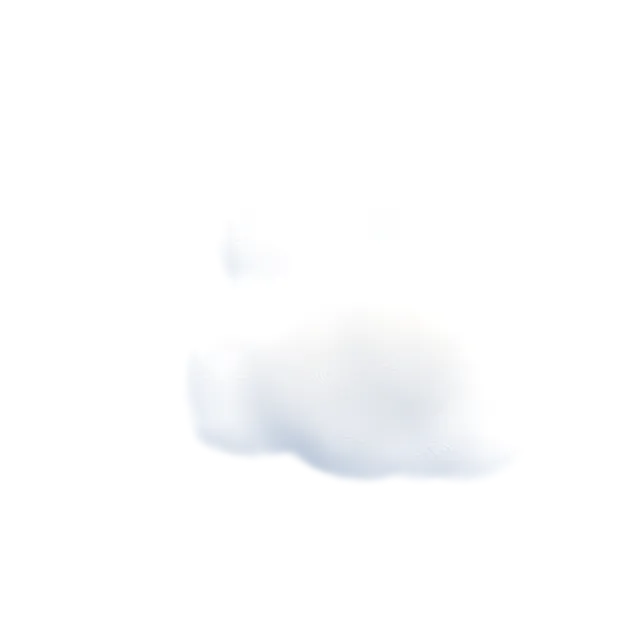
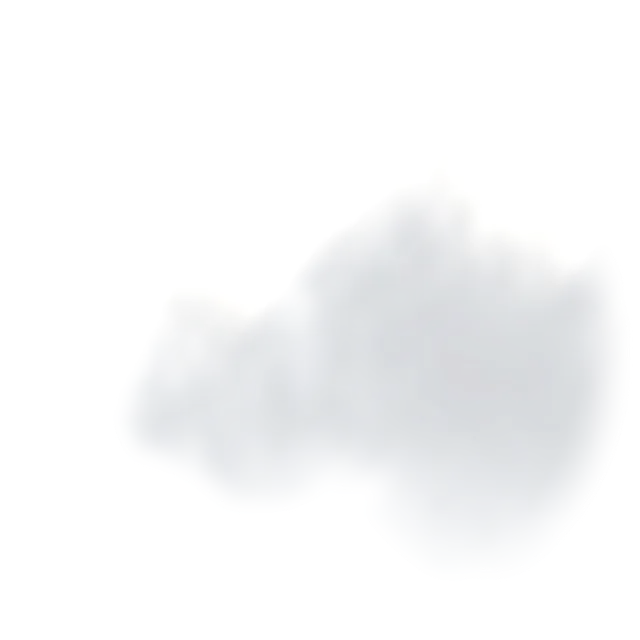
Demo 2: volumetric cloud render, tuned to the Awwwards annual reference
Density field instead of a lit surface: turbulence, fractal erosion, rim
filaments and a soft flat base, shaded by marching toward the sun through
the density. Clouds brighter and lighter so a pass no longer greys out the
hero; near shards dropped to .28-.42 opacity.

diff --git a/halo.css b/halo.css
@@ -45,8 +45,8 @@
 .xx-layer--far { --dur: 190s; --s0: 1.00; --s1: 1.22; --o: 0.80; --dx: -2%; --dy: 1%; }
 .xx-layer--mid { --dur: 130s; --s0: 0.96; --s1: 1.46; --o: 0.82; --dx:  3%; --dy: 3%; }
 
-.xx-layer--far .xx-cloud { background-image: url(clouds/far2.webp?v=20260917b); background-size: auto 30%; background-position: 50% 46%; }
-.xx-layer--mid .xx-cloud { background-image: url(clouds/mid2.webp?v=20260917b); background-size: auto 62%; background-position: 50% 72%; }
+.xx-layer--far .xx-cloud { background-image: url(clouds/far2.webp?v=20260917c); background-size: auto 30%; background-position: 50% 46%; }
+.xx-layer--mid .xx-cloud { background-image: url(clouds/mid2.webp?v=20260917c); background-size: auto 62%; background-position: 50% 72%; }
 
 @keyframes xxFly {
   0%   { transform: translate3d(0, 0, 0) scale(var(--s0)) scaleX(var(--flip)); opacity: 0; }
@@ -123,14 +123,14 @@
   animation-delay: calc((var(--delay) + var(--lag)) * var(--xx-tempo));
 }
 /* start clustered, end far apart: that spread is what reads as the tear */
-.xx-burst .xx-shard:nth-child(1) { --lag: 0s;   --o: .58; --x0: -2.0vmax; --y0: -1.2vmax; --x1: -58vmax; --y1:  26vmax; --s0: .26; --s1: 3.0; --r1:  -9deg; background-image: url(clouds/puff1.webp?v=20260917b); }
-.xx-burst .xx-shard:nth-child(2) { --lag: .5s;  --o: .54; --x0:  1.6vmax; --y0: -2.0vmax; --x1:  52vmax; --y1:  34vmax; --s0: .23; --s1: 2.7; --r1:   8deg; background-image: url(clouds/puff2.webp?v=20260917b); }
-.xx-burst .xx-shard:nth-child(3) { --lag: .9s;  --o: .50; --x0: -0.8vmax; --y0:  1.8vmax; --x1: -18vmax; --y1:  64vmax; --s0: .20; --s1: 3.3; --r1:   5deg; background-image: url(clouds/puff3.webp?v=20260917b); }
-.xx-burst .xx-shard:nth-child(4) { --lag: 1.4s; --o: .44; --x0:  2.4vmax; --y0:  0.6vmax; --x1:  30vmax; --y1: -30vmax; --s0: .18; --s1: 2.4; --r1:  -6deg; background-image: url(clouds/puff4.webp?v=20260917b); }
-.xx-burst:nth-child(2) .xx-shard:nth-child(1) { background-image: url(clouds/puff5.webp?v=20260917b); }
-.xx-burst:nth-child(2) .xx-shard:nth-child(3) { background-image: url(clouds/puff6.webp?v=20260917b); }
-.xx-burst:nth-child(3) .xx-shard:nth-child(2) { background-image: url(clouds/puff6.webp?v=20260917b); }
-.xx-burst:nth-child(3) .xx-shard:nth-child(4) { background-image: url(clouds/puff5.webp?v=20260917b); }
+.xx-burst .xx-shard:nth-child(1) { --lag: 0s;   --o: .42; --x0: -2.0vmax; --y0: -1.2vmax; --x1: -58vmax; --y1:  26vmax; --s0: .26; --s1: 3.0; --r1:  -9deg; background-image: url(clouds/puff1.webp?v=20260917c); }
+.xx-burst .xx-shard:nth-child(2) { --lag: .5s;  --o: .38; --x0:  1.6vmax; --y0: -2.0vmax; --x1:  52vmax; --y1:  34vmax; --s0: .23; --s1: 2.7; --r1:   8deg; background-image: url(clouds/puff2.webp?v=20260917c); }
+.xx-burst .xx-shard:nth-child(3) { --lag: .9s;  --o: .34; --x0: -0.8vmax; --y0:  1.8vmax; --x1: -18vmax; --y1:  64vmax; --s0: .20; --s1: 3.3; --r1:   5deg; background-image: url(clouds/puff3.webp?v=20260917c); }
+.xx-burst .xx-shard:nth-child(4) { --lag: 1.4s; --o: .28; --x0:  2.4vmax; --y0:  0.6vmax; --x1:  30vmax; --y1: -30vmax; --s0: .18; --s1: 2.4; --r1:  -6deg; background-image: url(clouds/puff4.webp?v=20260917c); }
+.xx-burst:nth-child(2) .xx-shard:nth-child(1) { background-image: url(clouds/puff5.webp?v=20260917c); }
+.xx-burst:nth-child(2) .xx-shard:nth-child(3) { background-image: url(clouds/puff6.webp?v=20260917c); }
+.xx-burst:nth-child(3) .xx-shard:nth-child(2) { background-image: url(clouds/puff6.webp?v=20260917c); }
+.xx-burst:nth-child(3) .xx-shard:nth-child(4) { background-image: url(clouds/puff5.webp?v=20260917c); }
 
 /* The approach is deliberately uneven: almost nothing happens for the first
    half (a cloud far ahead), then it swells, and in the last quarter the four
@@ -188,8 +188,8 @@ html.xx-soft .xx-sky {
     radial-gradient(ellipse 120% 60% at 50% 100%, rgba(255, 247, 234, 0.9) 0%, transparent 70%),
     linear-gradient(180deg, #e6ecf2 0%, #eef0f0 30%, #f7f3ea 58%, #fbf8ef 100%);
 }
-html.xx-soft .xx-layer--far .xx-cloud { background-image: url(clouds/far.webp?v=20260917b); }
-html.xx-soft .xx-layer--mid .xx-cloud { background-image: url(clouds/mid.webp?v=20260917b); }
+html.xx-soft .xx-layer--far .xx-cloud { background-image: url(clouds/far.webp?v=20260917c); }
+html.xx-soft .xx-layer--mid .xx-cloud { background-image: url(clouds/mid.webp?v=20260917c); }
 html.xx-soft .xx-shard { filter: blur(2px) opacity(.7); }
 
 /* the prototype is one screen: nav + hero fill the viewport */
@@ -199,18 +199,18 @@ html.xx-soft .xx-shard { filter: blur(2px) opacity(.7); }
 /* phones: half-size textures, fewer shards, the nimbus a little tighter */
 @media (max-width: 768px) {
   :root { --cx: 50%; --cy: 48%; }
-  .xx-layer--far .xx-cloud { background-image: url(clouds/far2-m.webp?v=20260917b); }
-  .xx-layer--mid .xx-cloud { background-image: url(clouds/mid2-m.webp?v=20260917b); }
+  .xx-layer--far .xx-cloud { background-image: url(clouds/far2-m.webp?v=20260917c); }
+  .xx-layer--mid .xx-cloud { background-image: url(clouds/mid2-m.webp?v=20260917c); }
   .xx-cloud { top: -30%; left: -30%; width: 160%; height: 160%; }
   .xx-layer--far .xx-cloud { background-size: auto 26%; }
   .xx-layer--mid .xx-cloud { background-size: auto 54%; }
-  .xx-burst .xx-shard:nth-child(1) { background-image: url(clouds/puff1-m.webp?v=20260917b); }
-  .xx-burst .xx-shard:nth-child(2) { background-image: url(clouds/puff2-m.webp?v=20260917b); }
-  .xx-burst .xx-shard:nth-child(3) { background-image: url(clouds/puff3-m.webp?v=20260917b); }
+  .xx-burst .xx-shard:nth-child(1) { background-image: url(clouds/puff1-m.webp?v=20260917c); }
+  .xx-burst .xx-shard:nth-child(2) { background-image: url(clouds/puff2-m.webp?v=20260917c); }
+  .xx-burst .xx-shard:nth-child(3) { background-image: url(clouds/puff3-m.webp?v=20260917c); }
   .xx-burst .xx-shard:nth-child(4) { display: none; }
-  .xx-burst:nth-child(2) .xx-shard:nth-child(1) { background-image: url(clouds/puff5-m.webp?v=20260917b); }
-  .xx-burst:nth-child(2) .xx-shard:nth-child(3) { background-image: url(clouds/puff6-m.webp?v=20260917b); }
-  .xx-burst:nth-child(3) .xx-shard:nth-child(2) { background-image: url(clouds/puff6-m.webp?v=20260917b); }
+  .xx-burst:nth-child(2) .xx-shard:nth-child(1) { background-image: url(clouds/puff5-m.webp?v=20260917c); }
+  .xx-burst:nth-child(2) .xx-shard:nth-child(3) { background-image: url(clouds/puff6-m.webp?v=20260917c); }
+  .xx-burst:nth-child(3) .xx-shard:nth-child(2) { background-image: url(clouds/puff6-m.webp?v=20260917c); }
   .xx-shard { width: 58vmax; height: 58vmax; margin: -29vmax 0 0 -29vmax; }
   .xx-halo__glow { width: 90vmax; height: 90vmax; margin: -45vmax 0 0 -45vmax; }
   .xx-sky--near { opacity: .8; }

diff --git a/halo-m.html b/halo-m.html
@@ -1834,7 +1834,7 @@ body { background: var(--cream) !important; }
  ]
 }
 </script>
-<link rel="stylesheet" href="halo.css?v=20260917b">
+<link rel="stylesheet" href="halo.css?v=20260917c">
 </head>
 <body>
 

diff --git a/halo.html b/halo.html
@@ -1244,7 +1244,7 @@ body { background: var(--cream) !important; }
  ]
 }
 </script>
-<link rel="stylesheet" href="halo.css?v=20260917b">
+<link rel="stylesheet" href="halo.css?v=20260917c">
 </head>
 <body>
 

diff --git a/gen_puffs.py b/gen_puffs.py
@@ -57,12 +57,14 @@ def lobes_cumulus(rng, n, spread, flat):
         t = i / max(1, n - 1)                       # 0 = base, 1 = crown
         cx = 0.5 + rng.uniform(-spread[0], spread[0]) * (1.0 - 0.45 * t)
         cy = 0.64 - t * rng.uniform(0.10, 0.40) * spread[1] / 0.30
-        rad = rng.uniform(0.11, 0.21) * (1.0 - 0.42 * t) * flat
+        big = rng.random() < 0.28                      # a couple of domes carry the silhouette
+        rad = rng.uniform(0.17, 0.26) if big else rng.uniform(0.07, 0.15)
+        rad *= (1.0 - 0.38 * t) * flat
         out.append((cx, cy, rad))
     return out
 
 
-def height_field(size, lobes, seed, warp=0.15, tile_x=False):
+def height_field(size, lobes, seed, warp=0.13, tile_x=False):
     """Union of spheres (p-norm, so the seams stay round), silhouette bitten by noise."""
     yy, xx = np.mgrid[0:size[1], 0:size[0]].astype(np.float32)
     xx /= size[0]; yy /= size[1]
@@ -82,38 +84,83 @@ def height_field(size, lobes, seed, warp=0.15, tile_x=False):
     return acc ** (1.0 / 3.0)
 
 
-def shade(h, hmax, seed, size, tile_x=False, relief=0.62):
-    """Light the height field like a solid: crown in sun, belly in sky-blue shadow."""
-    # normals read the big lobes only: micro-noise on the surface makes it look like rock
-    hs = soften(h, max(3.0, size[0] * 0.016))
-    gy, gx = np.gradient(hs * size[0])         # height in pixels, so the slopes are real slopes
-    nx, ny, nz = -gx * relief, -gy * relief, np.ones_like(h)
-    inv = 1.0 / np.sqrt(nx * nx + ny * ny + nz * nz)
-    nx, ny, nz = nx * inv, ny * inv, nz * inv
-
-    lam = nx * SUN[0] + ny * SUN[1] + nz * SUN[2]
-    light = np.clip((lam + 0.42) / 1.42, 0, 1) ** 0.85          # wrap light, no hard terminator
-    sky = np.clip(0.5 - ny * 0.5, 0, 1)                         # faces up = more sky light
-    light = np.clip(light * 0.82 + sky * 0.26, 0, 1)
-
-    crease = np.clip(soften(h, max(6.0, size[0] * 0.05)) - h, 0, None)
-    crease = crease / max(float(crease.max()), 1e-6)
-    light = np.clip(light * (1 - crease * 0.30), 0, 1)          # shadow where lobes meet
-
-    hn = np.clip(h / max(hmax, 1e-6), 0, 1)
-    thin = (1 - hn) ** 1.6                                      # sun through the thin edges
-    col = SHADE[None, None] * (1 - light[..., None]) + LIT[None, None] * light[..., None]
-    col = col + WARM[None, None] * (thin * light * 0.42)[..., None]
-
-    fringe = fbm(size[0], size[1], 22, 4, seed + 5001, tile_x)
-    alpha = smoothstep(0.010, 0.30, hn * (0.68 + 0.60 * fringe))   # wide band = soft, vapoury rim
-    alpha = soften(alpha, max(2.0, size[0] * 0.004))
-    return col, alpha
+def warp_field(a, seed, size, amp, cells, tile_x=False):
+    """Remap the field through two noise offsets: turbulence, not a row of balls."""
+    h, w = a.shape
+    yy, xx = np.mgrid[0:h, 0:w].astype(np.float32)
+    ox = (fbm(w, h, cells, 4, seed + 7001, tile_x) - 0.5) * 2 * amp
+    oy = (fbm(w, h, cells, 4, seed + 7301, tile_x) - 0.5) * 2 * amp
+    sx = (xx + ox) % w if tile_x else np.clip(xx + ox, 0, w - 1)
+    sy = np.clip(yy + oy, 0, h - 1)
+    return a[sy.astype(np.int32), sx.astype(np.int32)]
 
 
-def render(size, lobes, seed, tile_x=False, blur=1.0, relief=0.62):
+def erode(dens, seed, size, tile_x=False):
+    """Bite fractal detail out of the silhouette: cores stay solid, edges break into wisps."""
+    det = np.zeros_like(dens)
+    amp, cells, norm = 1.0, 9, 0.0
+    for o in range(5):
+        det += amp * (fbm(size[0], size[1], cells, 2, seed + 6100 + o * 37, tile_x) - 0.5) * 2
+        norm += amp; amp *= 0.55; cells = int(cells * 2.1)
+    det /= norm
+    out = np.clip(dens - (1 - dens) * 0.72 * np.clip(det, -1, 1) - 0.03, 0, 1)
+    # erosion may only nibble at the cloud, never scatter crumbs across the sky
+    near = smoothstep(0.03, 0.22, soften(dens, max(8.0, size[0] * 0.03)))
+    return out * near
+
+
+def shade(dens, seed, size, tile_x=False, sun_steps=26, sun_step_px=9.0):
+    """2D approximation of a volumetric render: march toward the sun through the density.
+
+    Transmittance along the sun ray gives the self-shadow — bright sunward crowns, deep
+    shade underneath, and the bright fringe where the cloud is thin enough to shine through.
+    """
+    sx, sy = SUN[0], SUN[1]                       # y is down, so the sun is up-right
+    n = np.sqrt(sx * sx + sy * sy)
+    sx, sy = sx / n, sy / n
+    scale = size[0] / 1024.0
+    opt = np.zeros_like(dens)
+    for i in range(1, sun_steps + 1):
+        dx = int(round(sx * sun_step_px * scale * i))
+        dy = int(round(sy * sun_step_px * scale * i))
+        opt += np.roll(np.roll(dens, -dy, axis=0), -dx, axis=1)
+    opt *= sun_step_px * scale / 40.0
+    trans = np.exp(-0.78 * opt)                   # how much sun reaches this point
+
+    up = np.zeros_like(dens)                      # sky light comes straight down
+    for i in range(1, 9):
+        up += np.roll(dens, int(round(6 * scale * i)), axis=0)
+    sky = np.exp(-0.55 * up * 6 * scale / 40.0)
+
+    powder = 1 - np.exp(-3.2 * dens)              # thin edges scatter forward and glow
+    lit = np.clip(0.60 + 0.45 * trans, 0, 1)      # even the shaded side is a bright cloud
+    col = (LIT[None, None] * lit[..., None]
+           + SHADE[None, None] * ((1 - lit) * (0.55 + 0.45 * sky))[..., None]
+           + WARM[None, None] * (trans * (1 - powder) * 0.18)[..., None])
+    alpha = 1 - np.exp(-2.0 * dens)
+    alpha = soften(alpha, max(2.0, size[0] * 0.011))
+    return col, np.clip(alpha, 0, 1)
+
+
+def render(size, lobes, seed, tile_x=False, blur=1.0, base_y=0.72):
     h = height_field(size, lobes, seed, tile_x=tile_x)
-    col, alpha = shade(h, float(h.max()), seed, size, tile_x, relief)
+    dens = h / max(float(h.max()), 1e-6)
+    # turbulence at two scales: big swirls in the body, filaments at the rim
+    dens = warp_field(dens, seed, size, size[0] * 0.055, 5, tile_x)
+    dens = warp_field(dens, seed + 91, size, size[0] * 0.018, 13, tile_x)
+    dens = erode(dens, seed, size, tile_x)
+
+    wisp = (fbm(size[0], size[1], 30, 4, seed + 8101, tile_x) - 0.5) * 2
+    edge = np.clip(dens * (1 - dens) * 4.0, 0, 1)
+    top = smoothstep(0.85, 0.35, np.linspace(0, 1, size[1], dtype=np.float32)[:, None])
+    dens = np.clip(dens + edge * wisp * 0.42 * (0.35 + 0.65 * top), 0, 1)   # tendrils on top
+
+    yy = np.linspace(0, 1, size[1], dtype=np.float32)[:, None]
+    flat = fbm(size[0], size[1], 5, 4, seed + 8601, tile_x) * 0.13
+    dens *= smoothstep(base_y + 0.30, base_y - 0.22, yy - flat)   # cumulus sits on a soft flat base
+    dens = soften(dens, max(2.0, size[0] * 0.006))
+
+    col, alpha = shade(dens, seed, size, tile_x)
     rgba = np.dstack([col, alpha * 255]).clip(0, 255).astype(np.uint8)
     img = Image.fromarray(rgba, 'RGBA')
     return img.filter(ImageFilter.GaussianBlur(blur)) if blur else img
@@ -136,8 +183,8 @@ def make(name, seed, n, spread, flat, blur):
 
 
 if __name__ == '__main__':
-    specs = [(1, 41, 15, (0.26, 0.30), 1.00, 1.0), (2, 57, 12, (0.30, 0.24), 1.05, 0.9),
-             (3, 73, 17, (0.24, 0.34), 0.95, 1.1), (4, 89, 10, (0.32, 0.20), 1.10, 0.8),
-             (5, 97, 14, (0.28, 0.28), 1.00, 1.0), (6, 113, 9, (0.34, 0.18), 1.15, 0.8)]
+    specs = [(1, 41, 18, (0.40, 0.20), 1.30, 1.2), (2, 57, 15, (0.44, 0.16), 1.40, 1.1),
+             (3, 73, 20, (0.38, 0.24), 1.25, 1.3), (4, 89, 13, (0.46, 0.14), 1.50, 1.0),
+             (5, 97, 17, (0.42, 0.18), 1.35, 1.2), (6, 113, 12, (0.48, 0.13), 1.55, 1.0)]
     for i, seed, n, spread, flat, blur in specs:
         make(f'puff{i}', seed, n, spread, flat, blur)

diff --git a/build_halo.py b/build_halo.py
@@ -7,7 +7,7 @@ panel carries the knobs Oleg will want to try (tempo, nimbus, old look).
 import re, pathlib
 SRC = pathlib.Path('/Users/user/Claude/xonx-site-preview')
 DST = pathlib.Path(__file__).parent
-V = '20260917b'
+V = '20260917c'
 
 SKY = '''
   <!-- ──── SKY (demo 2: halo + bursting clouds) ──── -->

diff --git a/README.md b/README.md
@@ -14,11 +14,13 @@ and cross-link to each other from the corner panel.
 
 - **slower** — far layer 190s, mid 130s, one cloud reaching you every ~17s; the `tempo` button
   in the corner switches calm / normal / quick (`--xx-tempo` in `halo.css`).
-- **less gradient, real cumulus** — the warm glow on `.xx-sky` is roughly half of demo 1, and every
-  cloud is re-rendered: `gen_puffs.py` builds a puff as a union of spheres, lit as a solid (sunlit
-  crown, sky-blue belly, sun through the thin edges), and `gen_sky.py` composites those puffs into
-  the `far2` / `mid2` bands with aerial perspective. The `clouds` button flips back to demo 1's soft
-  textures to compare.
+- **less gradient, believable cumulus** — the warm glow on `.xx-sky` is roughly half of demo 1, and
+  every cloud is re-rendered. `gen_puffs.py` builds a density field (union of spheres, turbulence at
+  two scales, fractal erosion, filaments at the rim, a soft flat base) and shades it by marching
+  toward the sun through that density: self-shadowing, sky light from above, forward scattering at
+  the thin edges. `gen_sky.py` composites the same puffs into the `far2` / `mid2` bands with aerial
+  perspective. Reference for the look: the cloud on the Awwwards annual page. The `clouds` button
+  flips back to demo 1's soft textures to compare.
 - **the nimbus** — `.xx-halo`: a bright core plus two faint rings (warm inside, a whisper of brand
   lime outside) sitting at the vanishing point, brightening each time a cloud passes through it.
 - **breaking apart** — each near cloud is four puffs that hold together while the cloud is far away
